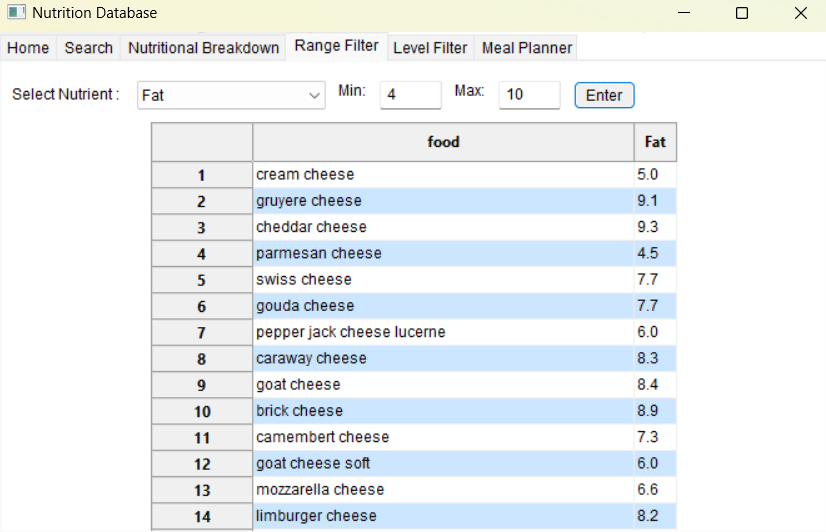
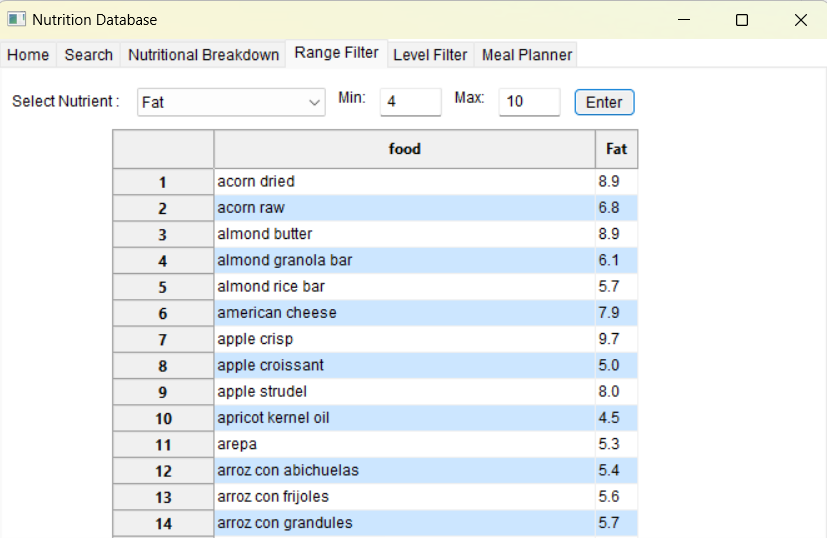
executive summary 1.4

Changed region(s): [[0.0, 0.1504, 0.8475, 1.0], [0.0, 0.0, 1.0, 0.1203], [0.9383, 0.0, 0.9988, 0.0301]]

diff --git a/code/run_template.py b/code/run_template.py
@@ -104,7 +104,7 @@ class MyMainFrame(MyFrame):
         max_val = float(self.m_textCtrlMaxVal.GetValue())
 
         df_1 = df[(df[nutrient] >= min_val) & (df[nutrient] <= max_val)]
-
+        df_1 = df_1.sort_values(by='food')
         df_display = df_1[['food', nutrient]]
 
         table = DataTable(df_display)

diff --git a/documents/Executive_Summary.md b/documents/Executive_Summary.md
@@ -1,6 +1,6 @@
 # Executive Summary
 
-### GitHub Repository URL: https://github.com/XXXX/XXXXX.git
+### GitHub Repository URL: https://github.com/UniKatya/Milestone2_Group19.git
 
 ---
 
